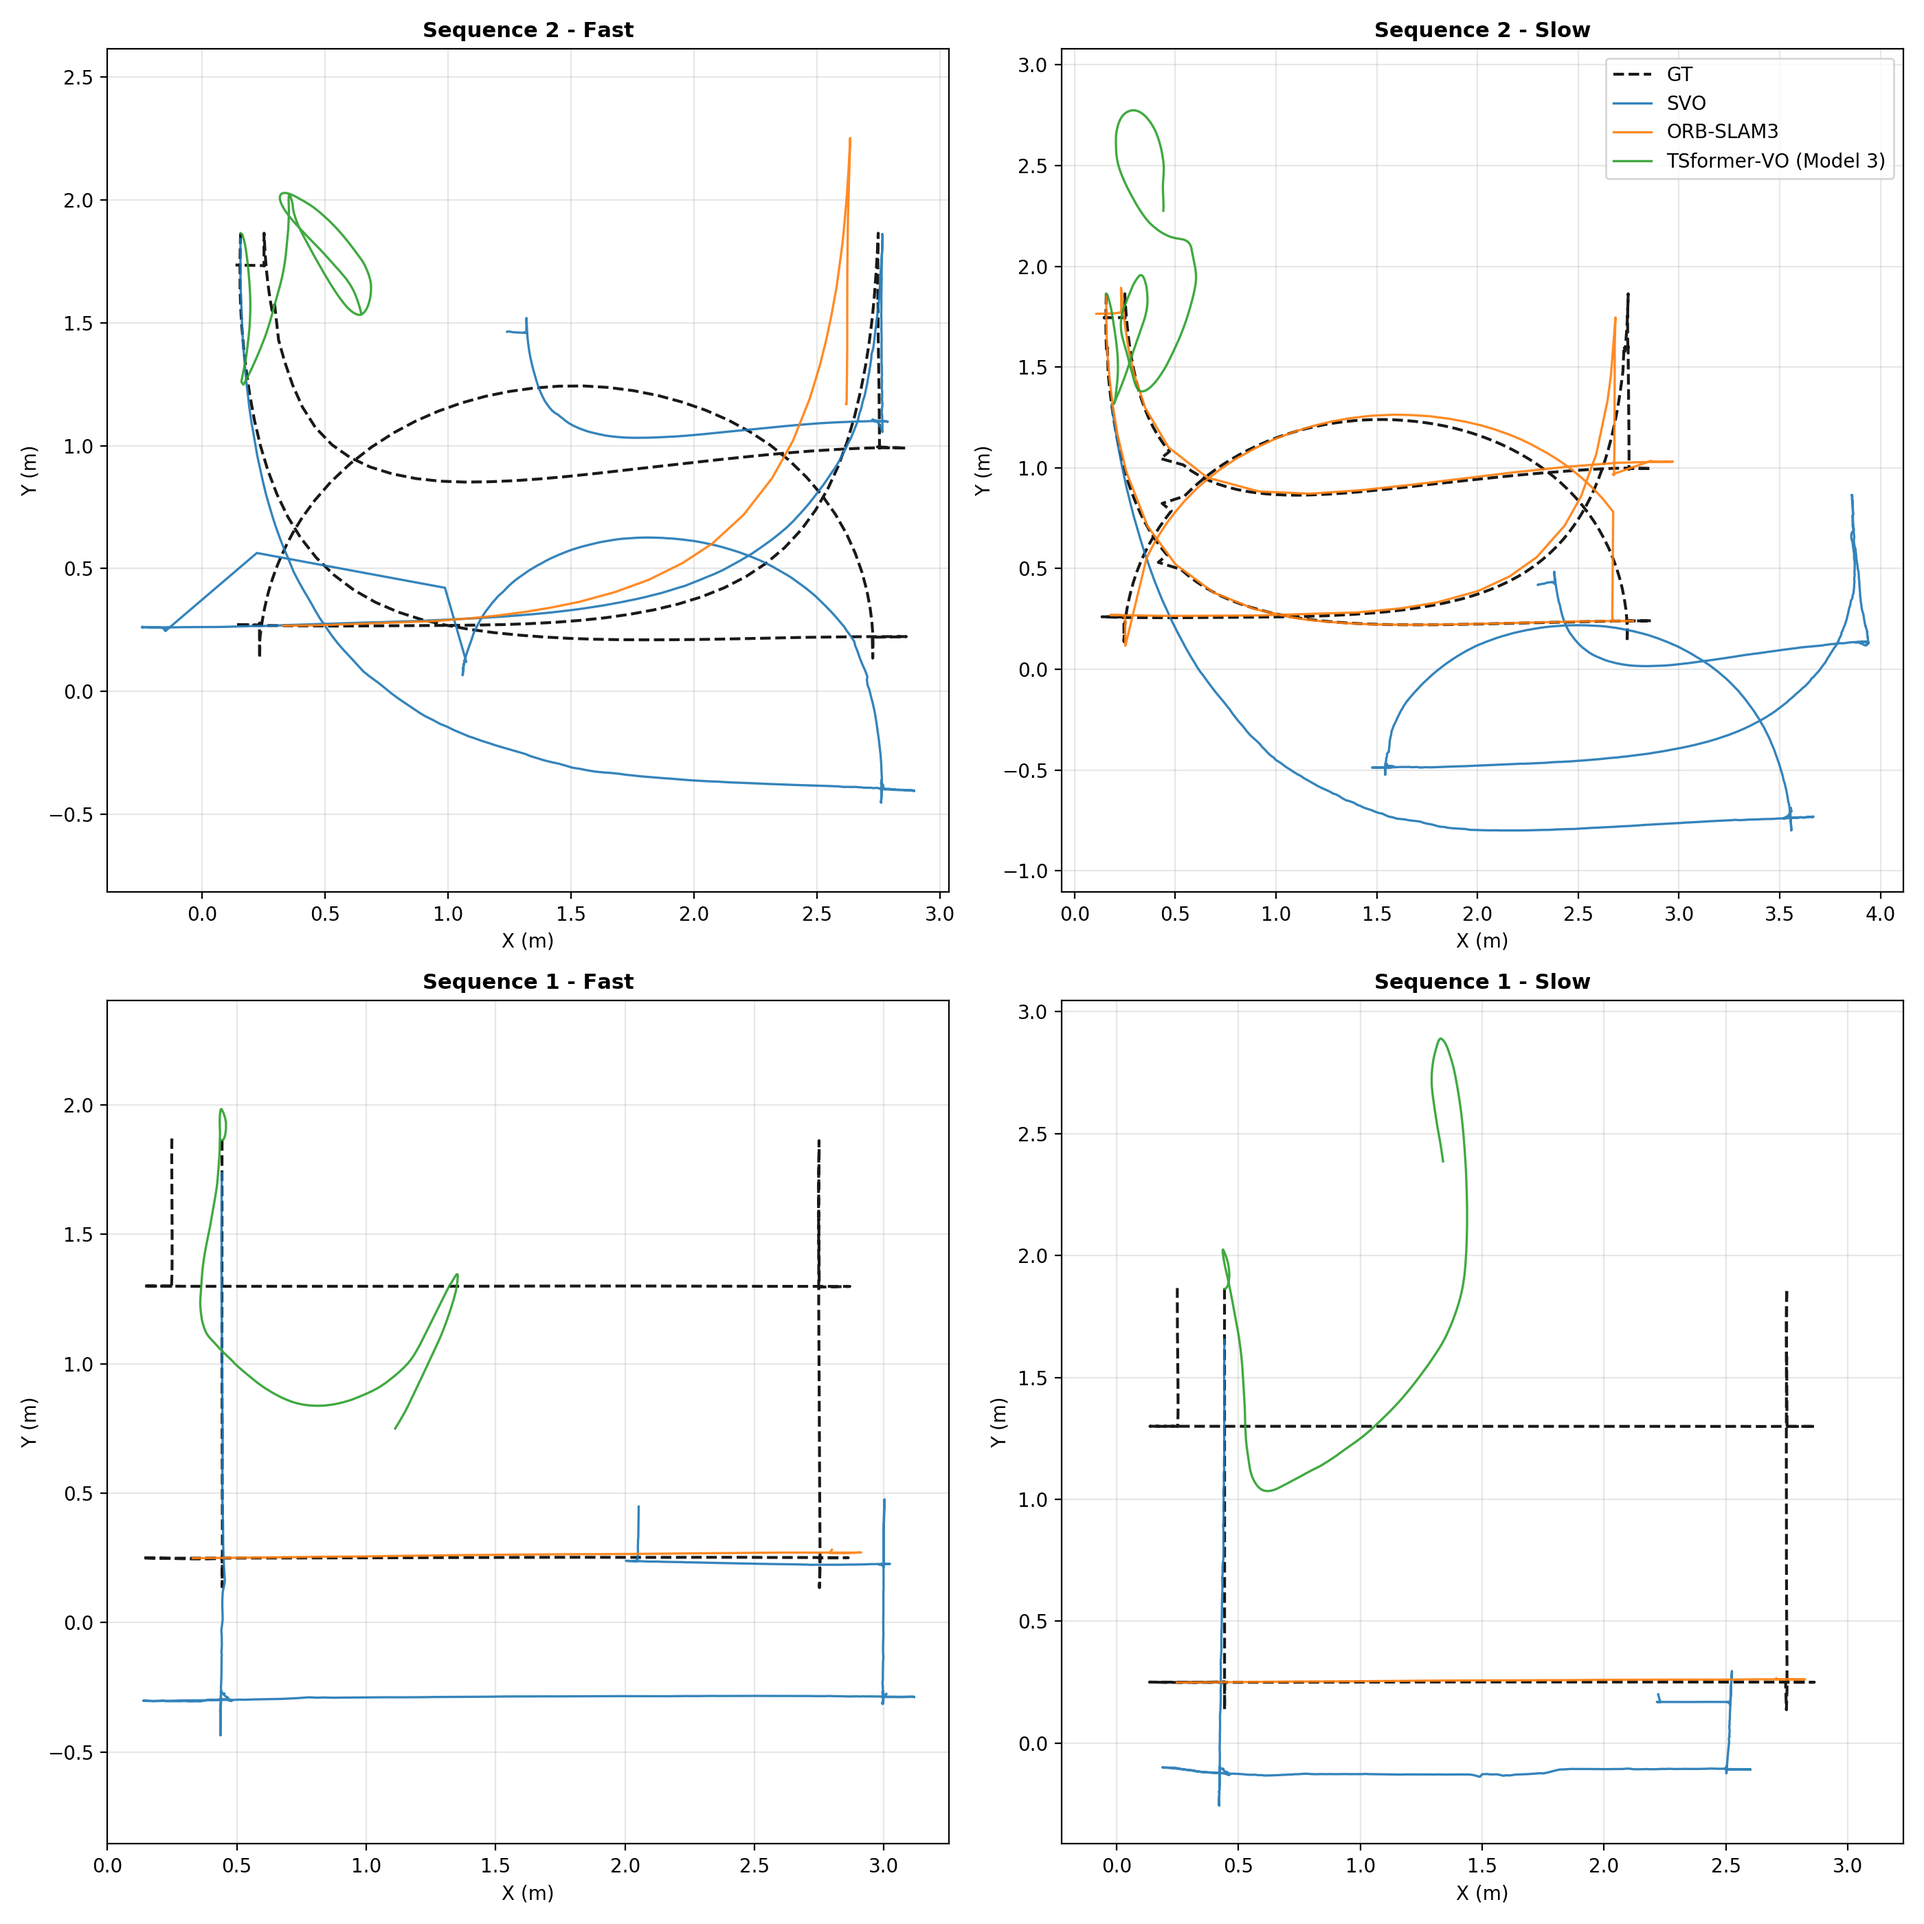
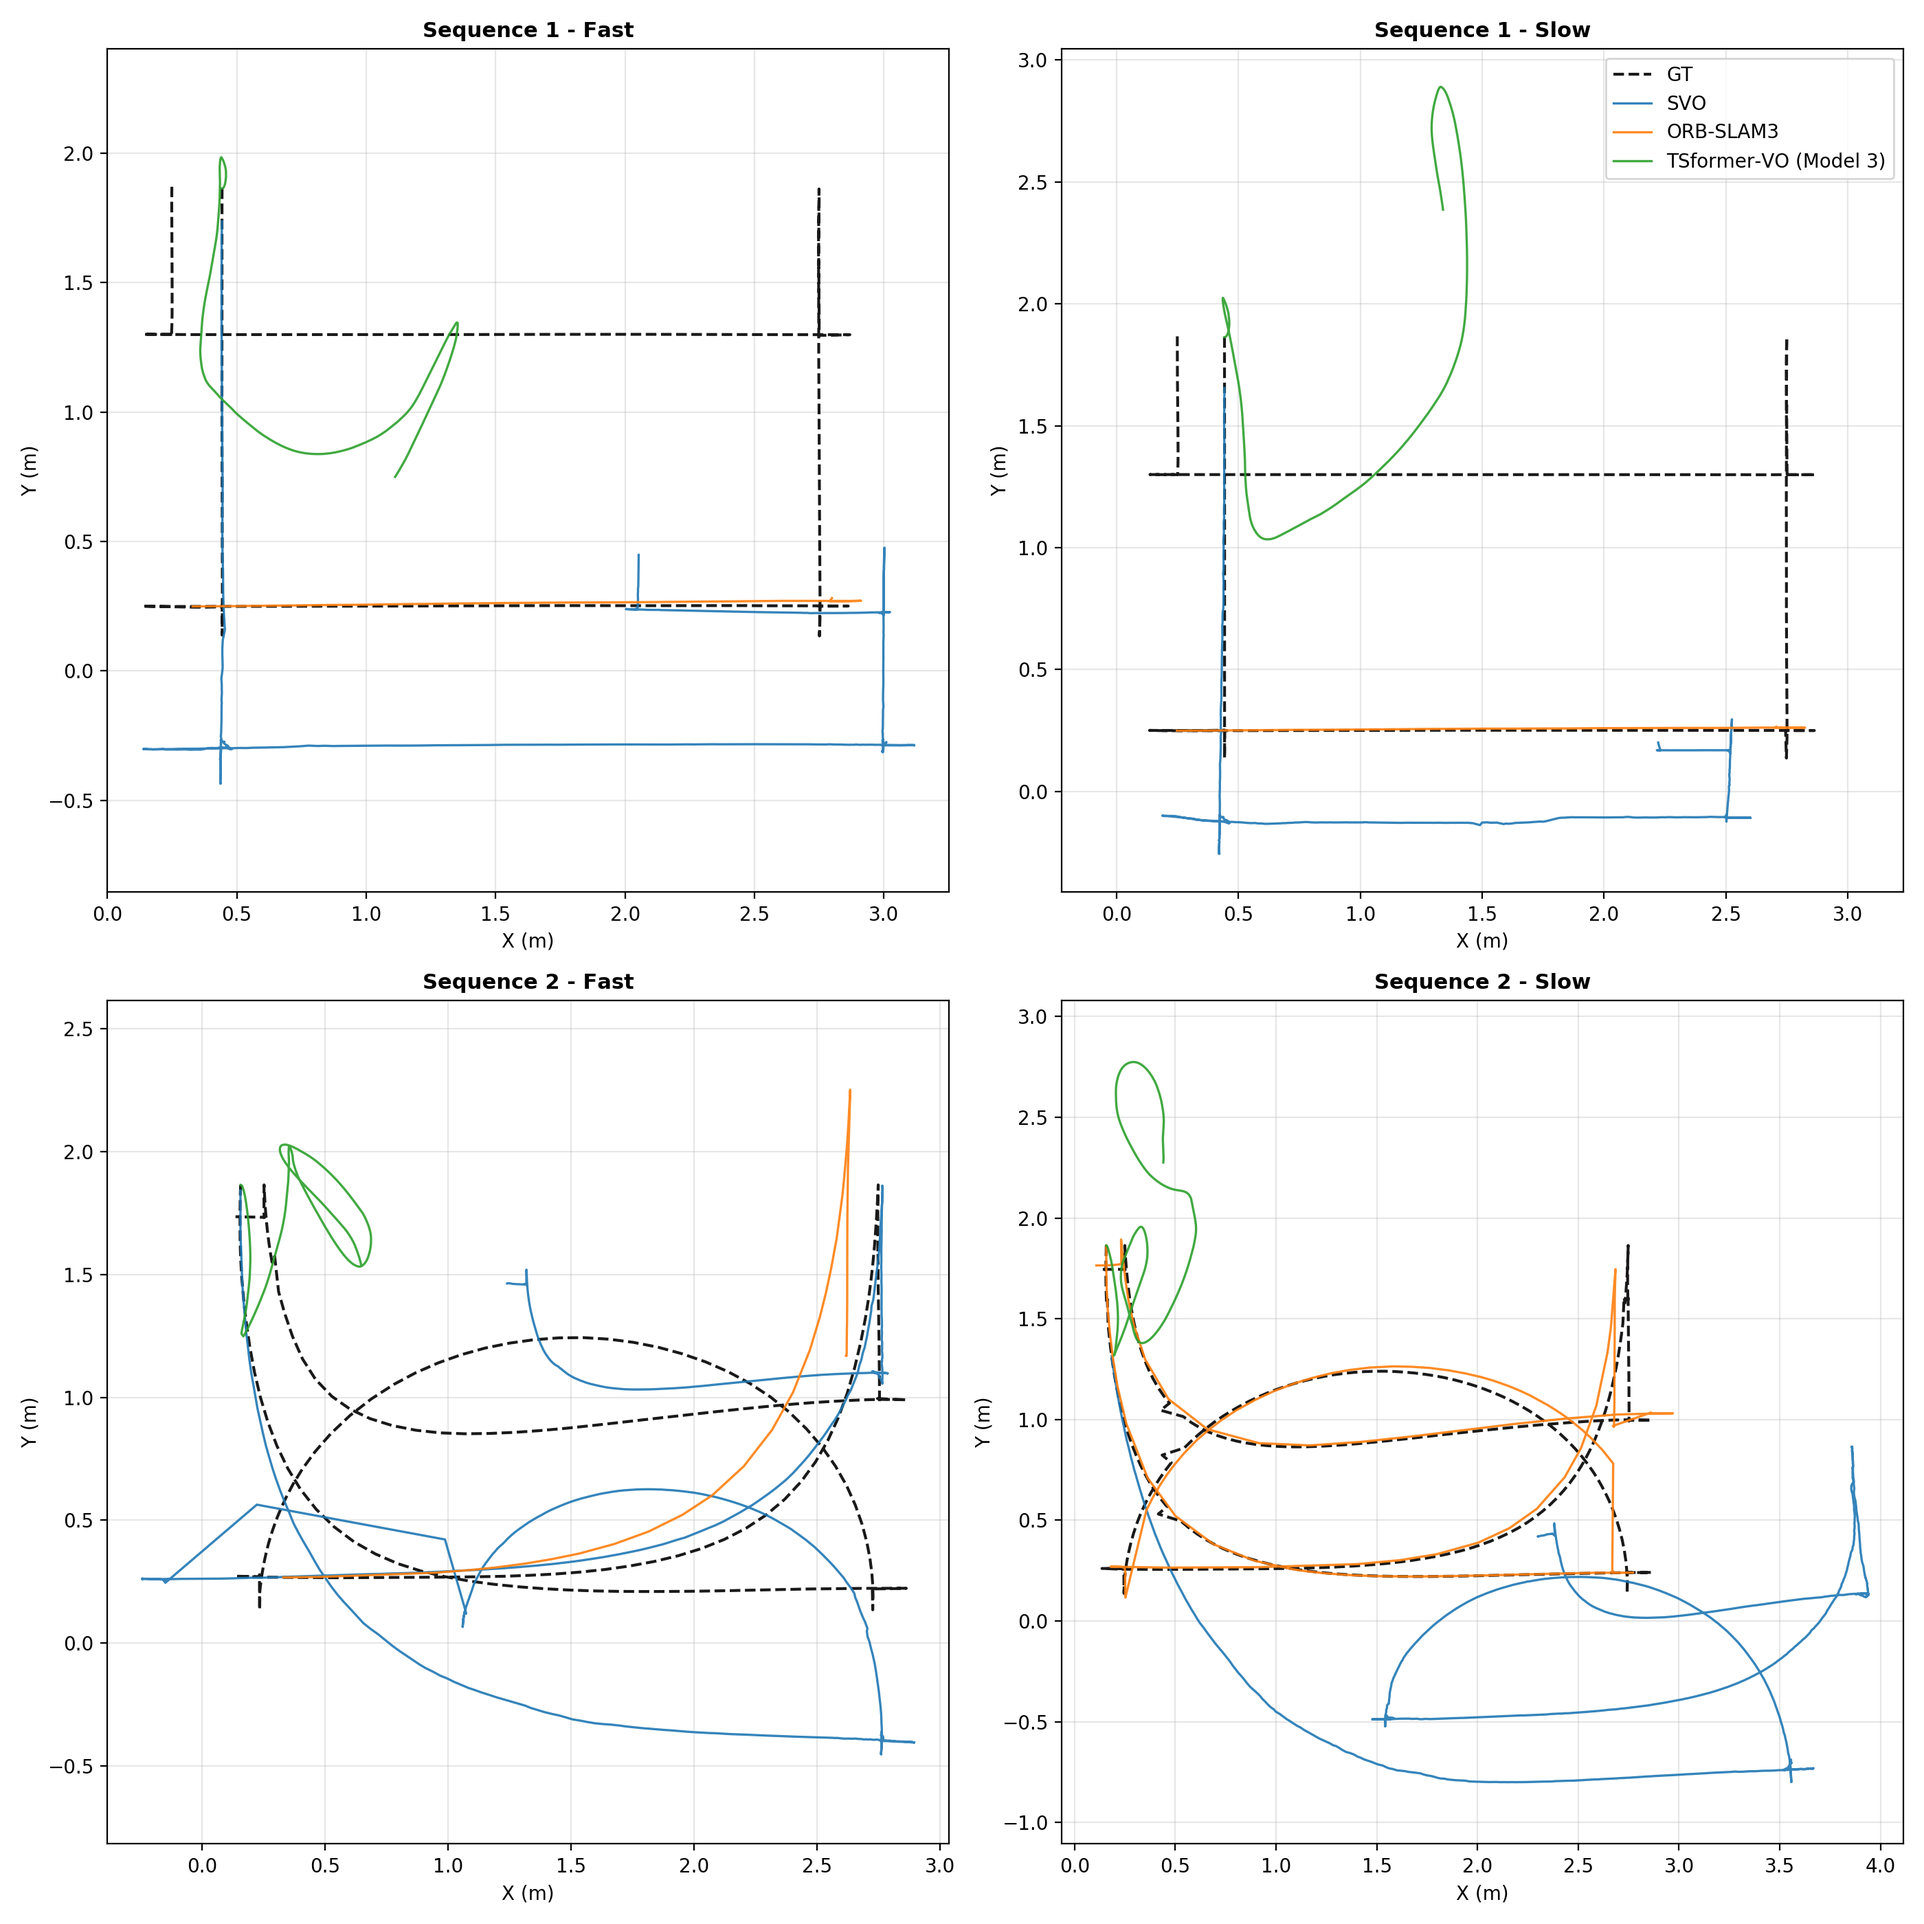
forgot to stage

diff --git a/ubuntu-20.04-cont/ws/eval/plot_all_method_comparisons.py b/ubuntu-20.04-cont/ws/eval/plot_all_method_comparisons.py
@@ -125,10 +125,15 @@ def plot_family(ax, name: str, mapping: dict, show_legend: bool = False):
 
 def main():
     fig, axes = plt.subplots(2, 2, figsize=(14, 14))
-    axis_list = axes.flatten()
+    ordered_families = [
+        ("straight_fast", MAPPING["straight_fast"]),
+        ("straight_slow", MAPPING["straight_slow"]),
+        ("curve_fast", MAPPING["curve_fast"]),
+        ("curve_slow", MAPPING["curve_slow"]),
+    ]
 
-    for ax, (family_name, family_mapping) in zip(axis_list, MAPPING.items()):
-        plot_family(ax, family_name, family_mapping, show_legend=(ax is axes[0, 1]))
+    for ax, (family_name, family_mapping) in zip(axes.flatten(), ordered_families):
+        plot_family(ax, family_name, family_mapping, show_legend=(family_name == "straight_slow"))
 
     fig.tight_layout()
     out_path = OUTPUT_DIR / "all_sequences_2x2.png"
